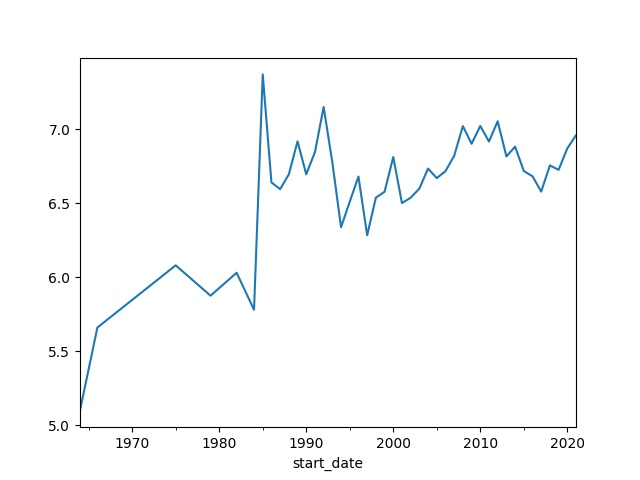
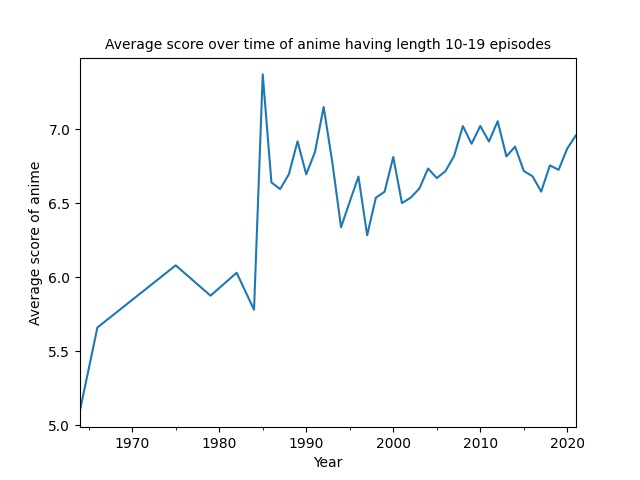
Length of anime trends plot labels

Changed region(s): [[0.1562, 0.0625, 0.8438, 0.125], [0.0312, 0.3438, 0.0625, 0.6875], [0.4688, 0.9375, 0.5625, 1.0]]

diff --git a/length_of_anime_trends.py b/length_of_anime_trends.py
@@ -54,7 +54,12 @@ def find_trends(min_ep, max_ep, row_name):
     df_curr = df_curr[['start_date', 'mean']]
     df_curr = df_curr.groupby(df_curr['start_date'].dt.to_period('Y'))['mean'].agg('mean')
     fig = df_curr.plot().get_figure()
+    plt.xlabel('Year')
+    plt.ylabel('Average score of anime')
+    plt.title('Average score over time of anime (TV, ONA, Movie) having length '+row_name+' episodes', fontsize=10)
+    # plt.gca().set_ylim([4, 8])
     fig.savefig('outputs/choosy-3-len-anime'+row_name+'.jpeg')
+
     plt.cla()
 
     # Untrimmed data
@@ -74,7 +79,13 @@ def find_trends(min_ep, max_ep, row_name):
     df_curr = df_curr[['start_date', 'mean']]
     df_curr = df_curr.groupby(df_curr['start_date'].dt.to_period('Y'))['mean'].agg('mean')
     fig = df_curr.plot().get_figure()
+    plt.xlabel('Year')
+    plt.ylabel('Average score of anime')
+    plt.title('Average score over time of anime having length '+row_name+' episodes', fontsize=10)
+    # plt.gca().set_ylim([4, 8])
+
     fig.savefig('outputs/all-3-len-anime'+row_name+'.jpeg')
+
     plt.cla()
 
     return
